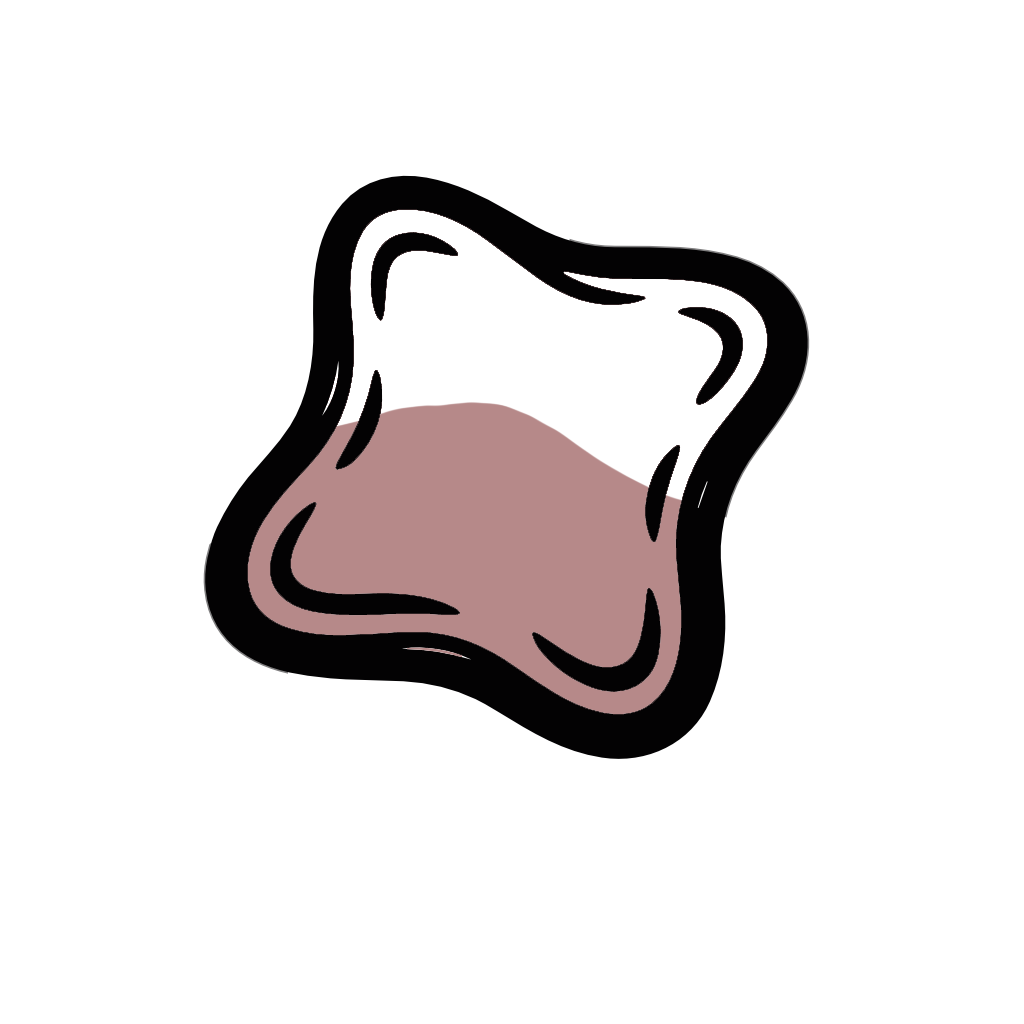
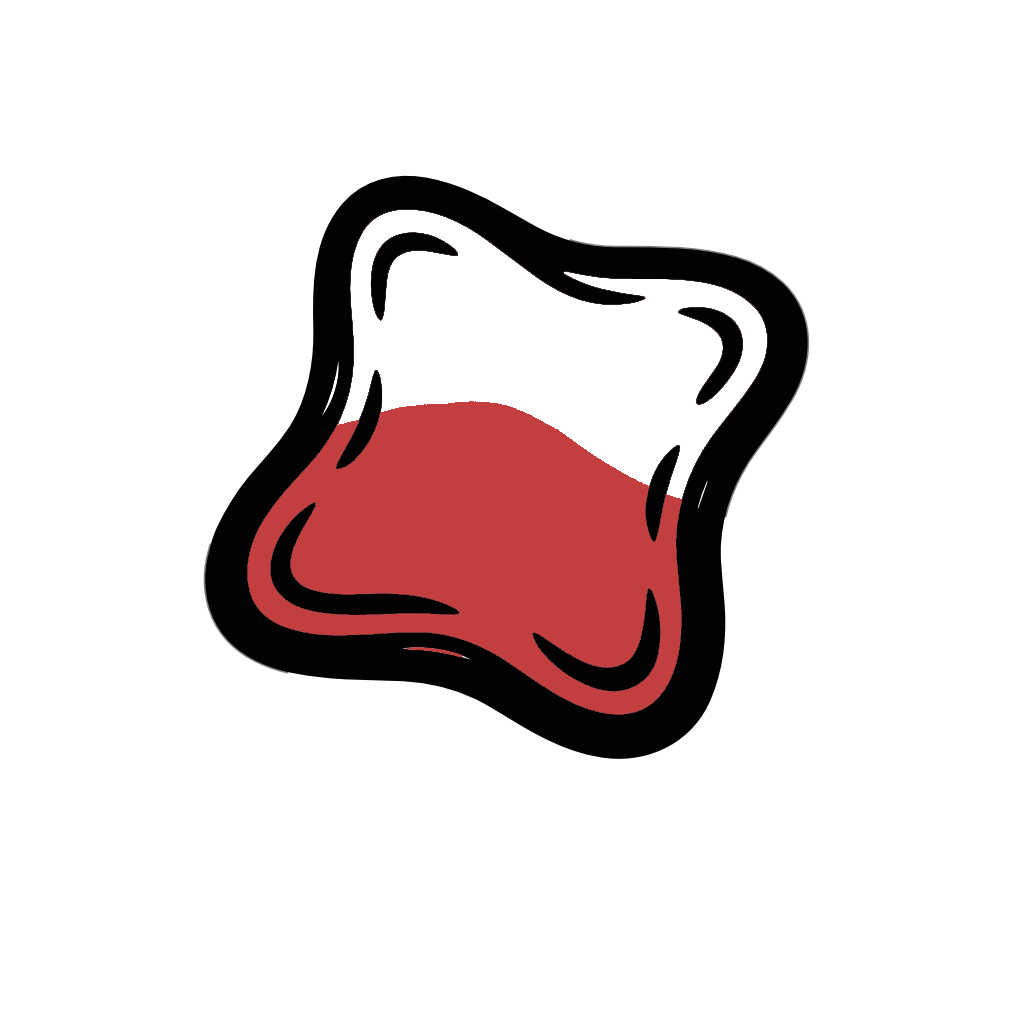
Improve UI and add game abort functionality
- Update title spelling to correct "BildungsCORNsulting"
- Make "Neues Spiel" button more prominent with larger size and shadow
- Reduce "Statistiken" button size to de-emphasize secondary action
- Add "Spielabbruch" button in game screen for abandoning games
- Update graphics with higher contrast versions
- Add inverted graphics for dark mode support

🤖 Generated with [Claude Code](https://claude.ai/code)

Changed region(s): [[0.2188, 0.375, 0.6875, 0.7188]]

diff --git a/src/app/page.tsx b/src/app/page.tsx
@@ -262,19 +262,19 @@ export default function Home() {
       />
       
       <div className="max-w-2xl mx-auto relative z-10 text-center">
-        <h1 className="rubik-doodle-title mb-4">BildungscoRnsulting</h1>
+        <h1 className="rubik-doodle-title mb-4">BildungsCORNsulting</h1>
         <p className="code-subtitle text-gray-700 mb-24">Treffsicher in die Bildungslücke</p>
         
         <div className="flex flex-col items-center gap-4">
           <button
             onClick={() => setCurrentScreen('players')}
-            className="modern-button touch-manipulation py-6 px-12 text-xl font-bold"
+            className="modern-button touch-manipulation py-10 px-20 text-3xl font-bold text-white shadow-2xl"
           >
             Neues Spiel
           </button>
           <button
             onClick={() => setCurrentScreen('stats')}
-            className="bg-white border border-gray-300 text-gray-700 hover:border-gray-400 py-4 px-8 text-lg font-semibold rounded-full touch-manipulation transition-all"
+            className="bg-white border border-gray-300 text-gray-700 py-2 px-6 text-sm font-medium rounded-full touch-manipulation"
           >
             Statistiken
           </button>
@@ -649,12 +649,21 @@ export default function Home() {
         </div>
 
         {/* Submit Button */}
-        <div className="text-center">
+        <div className="text-center flex justify-center items-center gap-4">
           <button
             onClick={submitRound}
             className="modern-button touch-manipulation px-8 py-4 text-lg font-semibold"
           >
             Runde bestätigen
+          </button>
+          <button
+            onClick={() => {
+              setCurrentGame(null);
+              setCurrentScreen('home');
+            }}
+            className="bg-gray-100 border border-gray-300 text-gray-700 hover:bg-gray-200 px-4 py-2 text-sm font-medium rounded-full touch-manipulation transition-colors"
+          >
+            Spielabbruch
           </button>
         </div>
       </div>

diff --git a/src/contexts/ThemeContext.tsx b/src/contexts/ThemeContext.tsx
@@ -1,0 +1,68 @@
+'use client';
+
+import React, { createContext, useContext, useEffect, useState } from 'react';
+
+type Theme = 'light' | 'dark' | 'system';
+
+interface ThemeContextType {
+  theme: Theme;
+  actualTheme: 'light' | 'dark';
+  setTheme: (theme: Theme) => void;
+}
+
+const ThemeContext = createContext<ThemeContextType | undefined>(undefined);
+
+export function ThemeProvider({ children }: { children: React.ReactNode }) {
+  const [theme, setTheme] = useState<Theme>('system');
+  const [actualTheme, setActualTheme] = useState<'light' | 'dark'>('light');
+
+  useEffect(() => {
+    const stored = localStorage.getItem('theme') as Theme;
+    if (stored && ['light', 'dark', 'system'].includes(stored)) {
+      setTheme(stored);
+    }
+  }, []);
+
+  useEffect(() => {
+    const updateActualTheme = () => {
+      if (theme === 'system') {
+        const systemPrefersDark = window.matchMedia('(prefers-color-scheme: dark)').matches;
+        setActualTheme(systemPrefersDark ? 'dark' : 'light');
+      } else {
+        setActualTheme(theme);
+      }
+    };
+
+    updateActualTheme();
+
+    if (theme === 'system') {
+      const mediaQuery = window.matchMedia('(prefers-color-scheme: dark)');
+      mediaQuery.addEventListener('change', updateActualTheme);
+      return () => mediaQuery.removeEventListener('change', updateActualTheme);
+    }
+  }, [theme]);
+
+  useEffect(() => {
+    localStorage.setItem('theme', theme);
+    
+    if (actualTheme === 'dark') {
+      document.documentElement.classList.add('dark');
+    } else {
+      document.documentElement.classList.remove('dark');
+    }
+  }, [theme, actualTheme]);
+
+  return (
+    <ThemeContext.Provider value={{ theme, actualTheme, setTheme }}>
+      {children}
+    </ThemeContext.Provider>
+  );
+}
+
+export function useTheme() {
+  const context = useContext(ThemeContext);
+  if (context === undefined) {
+    throw new Error('useTheme must be used within a ThemeProvider');
+  }
+  return context;
+}

diff --git a/src/components/ThemeToggle.tsx b/src/components/ThemeToggle.tsx
@@ -1,0 +1,39 @@
+'use client';
+
+import { useTheme } from '@/contexts/ThemeContext';
+
+export default function ThemeToggle() {
+  const { actualTheme, setTheme } = useTheme();
+
+  const toggleTheme = () => {
+    setTheme(actualTheme === 'dark' ? 'light' : 'dark');
+  };
+
+  const getThemeIcon = () => {
+    if (actualTheme === 'dark') {
+      // Moon icon for dark mode
+      return (
+        <svg className="w-5 h-5" fill="currentColor" viewBox="0 0 20 20">
+          <path d="M17.293 13.293A8 8 0 016.707 2.707a8.001 8.001 0 1010.586 10.586z" />
+        </svg>
+      );
+    } else {
+      // Sun icon for light mode
+      return (
+        <svg className="w-5 h-5" fill="currentColor" viewBox="0 0 20 20">
+          <path fillRule="evenodd" d="M10 2a1 1 0 011 1v1a1 1 0 11-2 0V3a1 1 0 011-1zm4 8a4 4 0 11-8 0 4 4 0 018 0zm-.464 4.95l.707.707a1 1 0 001.414-1.414l-.707-.707a1 1 0 00-1.414 1.414zm2.12-10.607a1 1 0 010 1.414l-.706.707a1 1 0 11-1.414-1.414l.707-.707a1 1 0 011.414 0zM17 11a1 1 0 100-2h-1a1 1 0 100 2h1zm-7 4a1 1 0 011 1v1a1 1 0 11-2 0v-1a1 1 0 011-1zM5.05 6.464A1 1 0 106.465 5.05l-.708-.707a1 1 0 00-1.414 1.414l.707.707zm1.414 8.486l-.707.707a1 1 0 01-1.414-1.414l.707-.707a1 1 0 011.414 1.414zM4 11a1 1 0 100-2H3a1 1 0 000 2h1z" clipRule="evenodd" />
+        </svg>
+      );
+    }
+  };
+
+  return (
+    <button
+      onClick={toggleTheme}
+      className="flex items-center justify-center w-10 h-10 rounded-lg bg-gray-900 hover:bg-gray-700 text-white transition-colors"
+      aria-label={`Switch to ${actualTheme === 'dark' ? 'light' : 'dark'} mode`}
+    >
+      {getThemeIcon()}
+    </button>
+  );
+}

diff --git a/src/utils/imageUtils.ts b/src/utils/imageUtils.ts
@@ -1,0 +1,21 @@
+import { GameObject } from '../app/types';
+
+export function getThemeAwareImageSrc(
+  obj: GameObject, 
+  isDarkMode: boolean
+): string {
+  const baseType = obj.type === 'bag' ? 'cornholebag' : 'cornholeball';
+  const stateMap: { [key: number]: string } = { 0: 'empty', 1: 'half', 2: 'full' };
+  const state = stateMap[obj.state];
+  
+  // Only use -inv versions for empty state in dark mode
+  if (state === 'empty' && isDarkMode) {
+    return `/${baseType}-empty-inv.png`;
+  }
+  
+  return `/${baseType}-${state}.png`;
+}
+
+export function getSuccessImageSrc(isDarkMode: boolean): string {
+  return isDarkMode ? '/success-inv.png' : '/success.png';
+}
